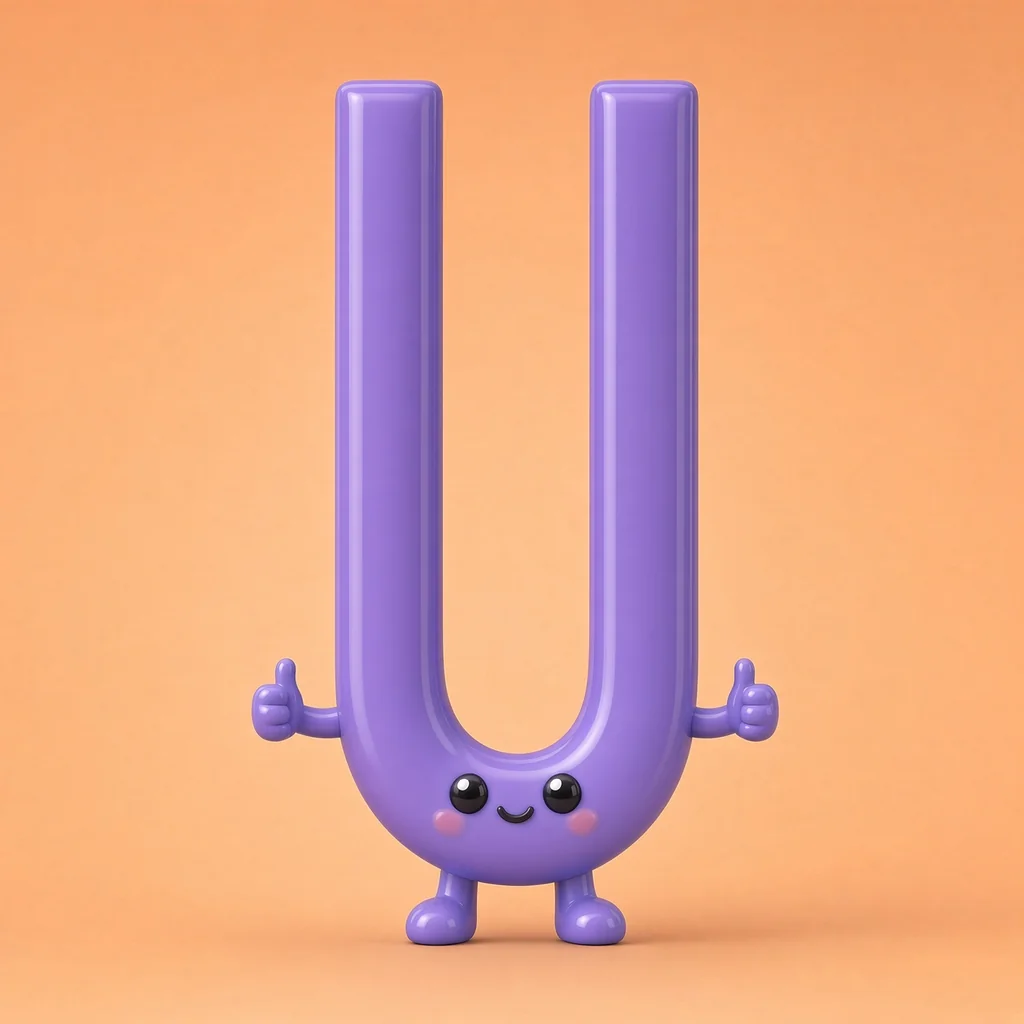
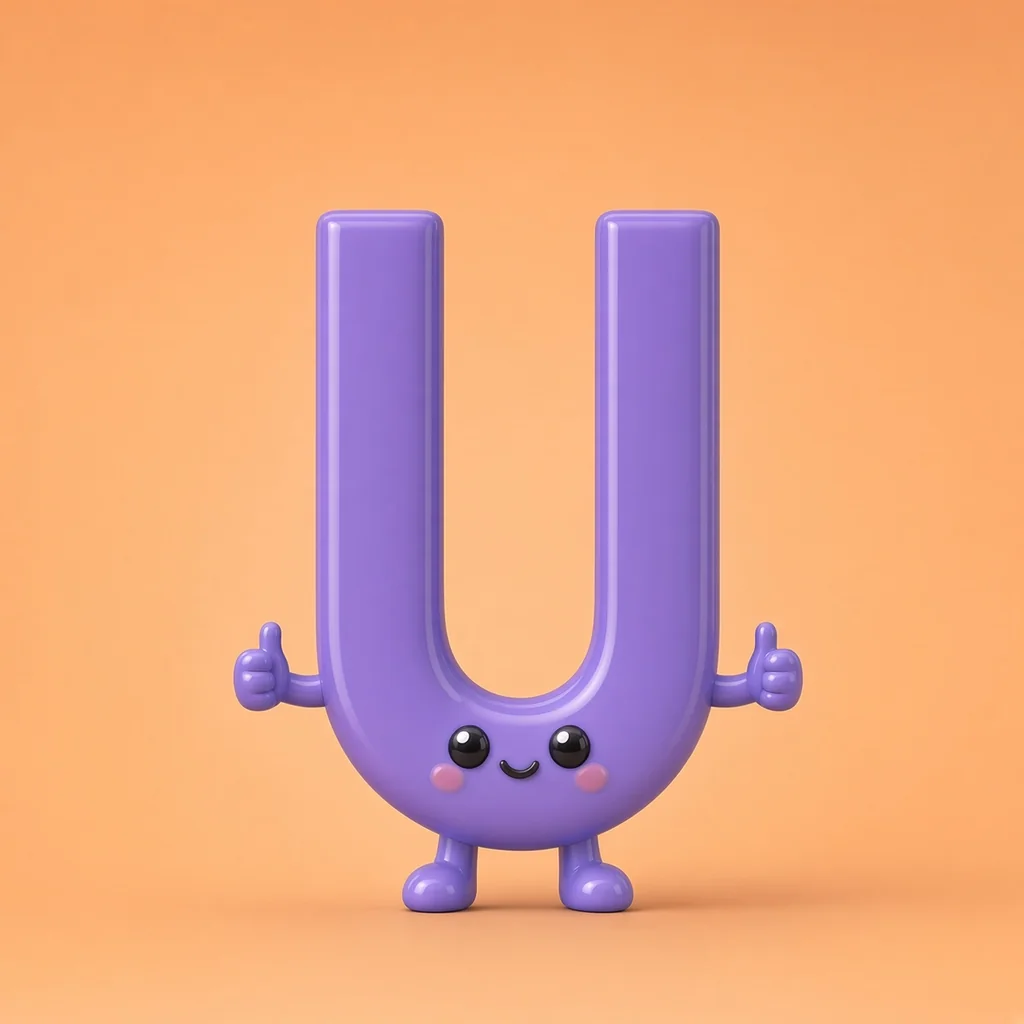
v0.219: Big U is shorter and wider, not a tall skinny horseshoe.

Changed region(s): [[0.3438, 0.0625, 0.7812, 0.9375], [0.2188, 0.0625, 0.4375, 0.75]]

diff --git a/src/lib/version.ts b/src/lib/version.ts
@@ -12,7 +12,7 @@
  * Grok Publish: still remind at v0.070, v0.080… so the public link can match.
  */
 
-export const APP_VERSION = "0.218";
+export const APP_VERSION = "0.219";
 export const APP_VERSION_LABEL = `v${APP_VERSION}`;
 export const APP_SLUG = "abc-adventure";
 export const APP_DISPLAY_NAME = "ABC Adventure";

diff --git a/SESSION.md b/SESSION.md
@@ -1,6 +1,6 @@
 # Session compact — ABC Adventure
 
-**Version:** v0.218  
+**Version:** v0.219  
 **GitHub:** sh4gu4dummy-arch/abc-adventure `main`  
 Always **commit + push** ABC updates the same turn. Tell them the version.
 **Never** push Grok sandbox internals (`.grok/`, attachments, skill dumps).  
@@ -44,6 +44,9 @@ All 156 word-card thumbs are video frame 1. A–Q overwrite `posters/`. R–Z go
 
 ## Sound toggle (v0.210–0.211)
 One speaker icon. Exclusive: Narration mutes the clip; Video sound mutes overlay.
+
+## Big U (v0.216–0.219)
+Even-width U, then shortened so it is not a tall skinny horseshoe.
 
 ## Sun + Big U (v0.218)
 Sun has rays + a face and rises. Big U is even-width with a lower smaller face.

diff --git a/PROJECT.md b/PROJECT.md
@@ -113,7 +113,7 @@ npm run build:apk      # only when asked
 
 ## Versioning & downloads
 
-- **Current version:** `0.218` (`v0.218`) — stored in `VERSION` and `src/lib/version.ts` (keep in sync).
+- **Current version:** `0.219` (`v0.219`) — stored in `VERSION` and `src/lib/version.ts` (keep in sync).
 
 ## GitHub + Grok Publish cadence
 
